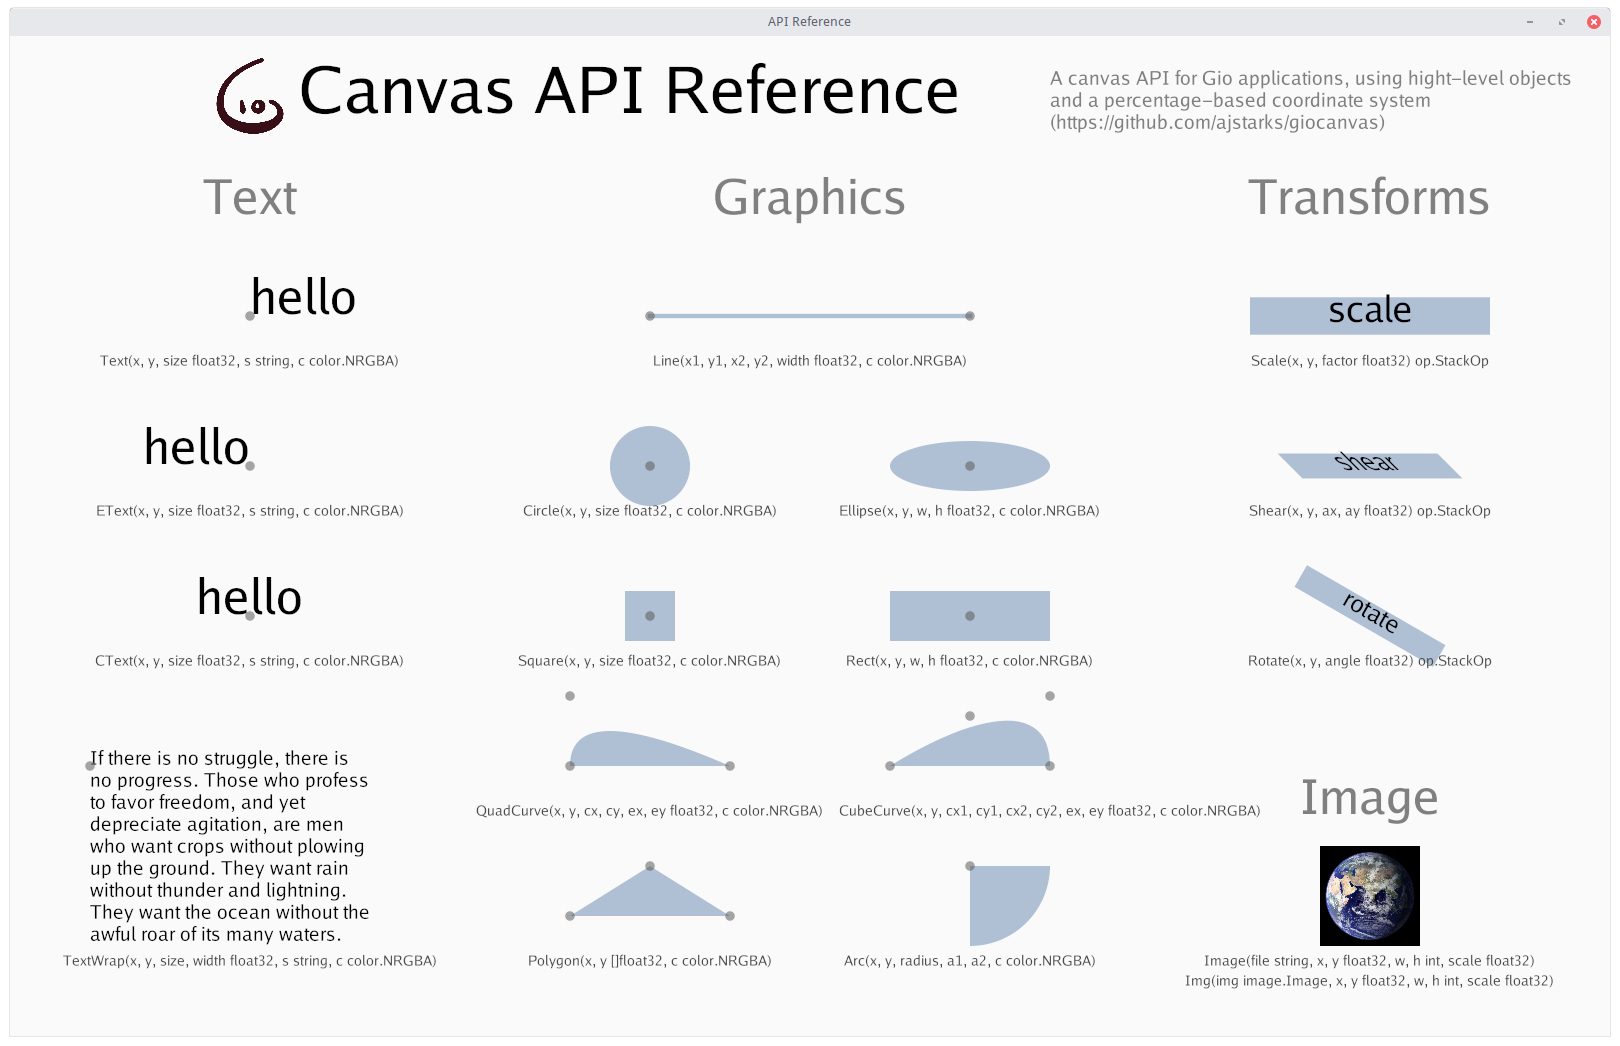
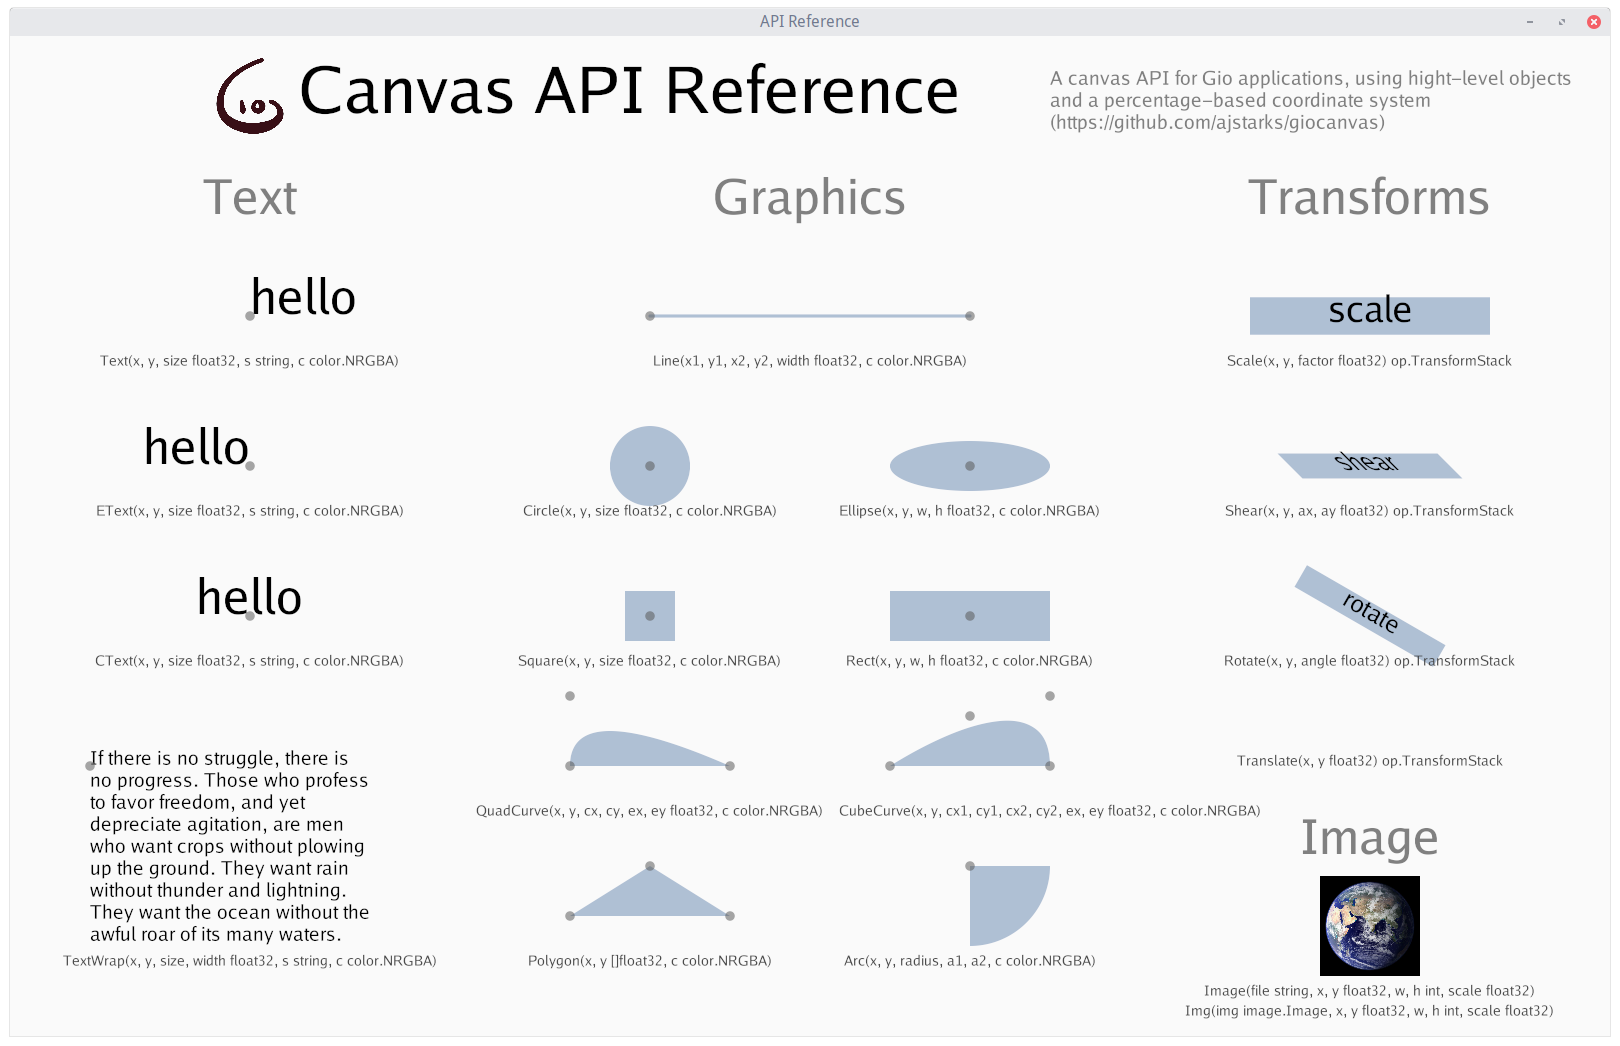
update apisheet with transformation API change

diff --git a/apisheet/main.go b/apisheet/main.go
@@ -64,7 +64,7 @@ func ref(title string, width, height float32, showgrid bool) {
 			canvas.CText(col1, subtop, headsize, "Text", subcolor)
 			canvas.CText(col2, subtop, headsize, "Graphics", subcolor)
 			canvas.CText(col3, subtop, headsize, "Transforms", subcolor)
-			canvas.CText(col3, subtop-60, headsize, "Image", subcolor)
+			canvas.CText(col3, subtop-64, headsize, "Image", subcolor)
 
 			// Text
 			y := subtop - 10
@@ -153,23 +153,25 @@ func ref(title string, width, height float32, showgrid bool) {
 			canvas.CenterRect(midx, y, rectw, recth, shapecolor)
 			canvas.TextMid(midx, y-ts2, ts, "scale", tcolor)
 			giocanvas.EndTransform(stack)
-			canvas.CText(col3, y-5, apisize, "Scale(x, y, factor float32) op.StackOp", apicolor)
+			canvas.CText(col3, y-5, apisize, "Scale(x, y, factor float32) op.TransformStack", apicolor)
 
 			y -= 15
 			stack = canvas.Shear(midx, y, pi/4, 0)
 			canvas.CenterRect(midx, y, rectw, recth, shapecolor)
 			canvas.TextMid(midx, y-ts2, ts, "shear", tcolor)
 			giocanvas.EndTransform(stack)
-			canvas.CText(col3, y-5, apisize, "Shear(x, y, ax, ay float32) op.StackOp", apicolor)
+			canvas.CText(col3, y-5, apisize, "Shear(x, y, ax, ay float32) op.TransformStack", apicolor)
 
 			y -= 15
 			stack = canvas.Rotate(midx, y, pi/6)
 			canvas.CenterRect(midx, y, rectw, recth, shapecolor)
 			canvas.TextMid(midx, y-ts2, ts, "rotate", tcolor)
 			giocanvas.EndTransform(stack)
-			canvas.CText(col3, y-5, apisize, "Rotate(x, y, angle float32) op.StackOp", apicolor)
+			canvas.CText(col3, y-5, apisize, "Rotate(x, y, angle float32) op.TransformStack", apicolor)
 
-			y -= 30
+			canvas.CText(col3, y-15, apisize, "Translate(x, y float32) op.TransformStack", apicolor)
+
+			y -= 33
 			canvas.Image("earth.jpg", midx, y+2, 1000, 1000, 10)
 			canvas.CText(midx, y-5, apisize, "Image(file string, x, y float32, w, h int, scale float32)", apicolor)
 			canvas.CText(midx, y-7, apisize, "Img(img image.Image, x, y float32, w, h int, scale float32)", apicolor)
